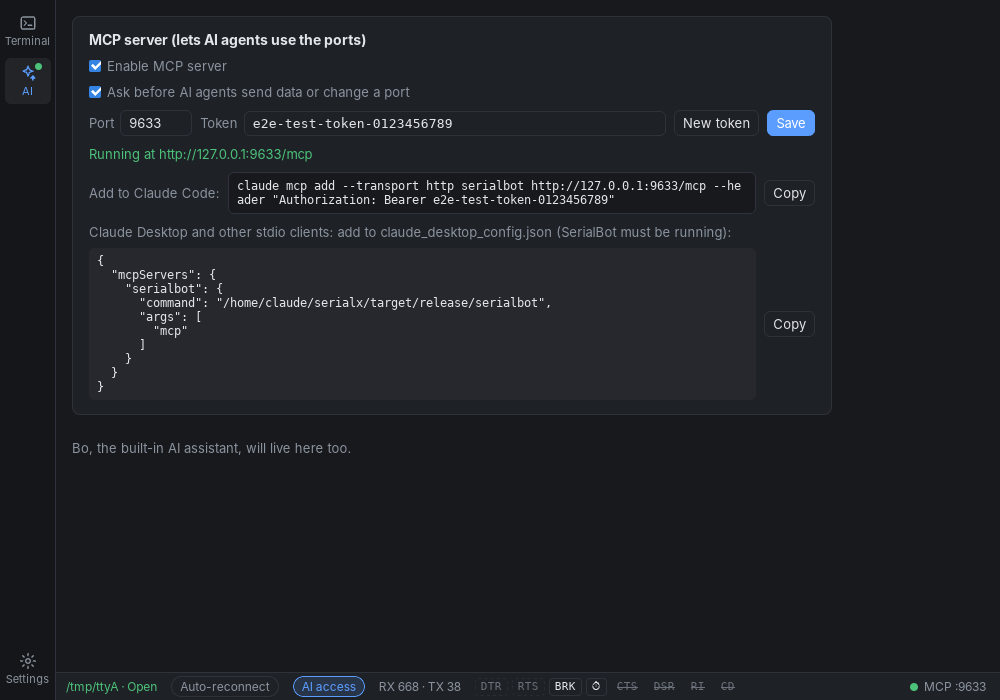
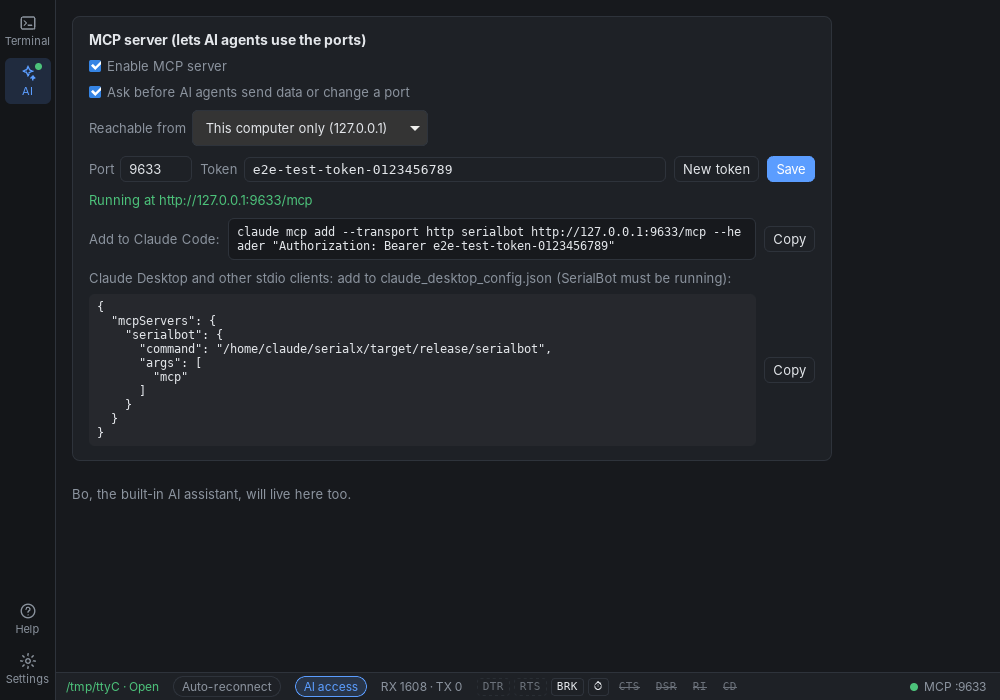
docs: AI page shot and notes for beta.3 (#79)

diff --git a/README.md b/README.md
@@ -104,7 +104,7 @@ You stay in charge. Every change to a port needs your approval, and every line t
 <details>
 <summary>🤖 AI page: MCP server settings</summary>
 
-<img src="docs/images/ai-dark.png" width="800" alt="AI page with the MCP server enabled, the confirmation setting and the Claude Code and Claude Desktop snippets">
+<img src="docs/images/ai-dark.png" width="800" alt="AI page with the MCP server enabled, the confirmation setting, Reachable from set to this computer only, and the Claude Code and Claude Desktop snippets">
 
 </details>
 

diff --git a/README.zh-CN.md b/README.zh-CN.md
@@ -104,7 +104,7 @@ SerialBot 补上的就是这一环，让 Agent 直接面对设备：
 <details>
 <summary>🤖 AI 页：MCP 服务设置</summary>
 
-<img src="docs/images/ai-dark.png" width="800" alt="AI 页：启用 MCP 服务、确认设置，以及 Claude Code 和 Claude Desktop 的配置">
+<img src="docs/images/ai-dark.png" width="800" alt="AI 页：启用 MCP 服务、确认设置、允许访问为仅本机，以及 Claude Code 和 Claude Desktop 的配置">
 
 </details>
 
